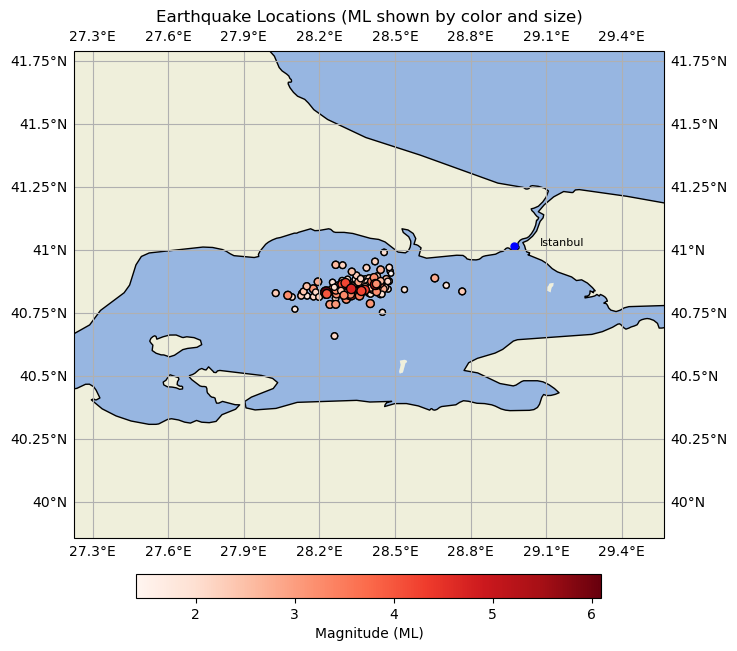
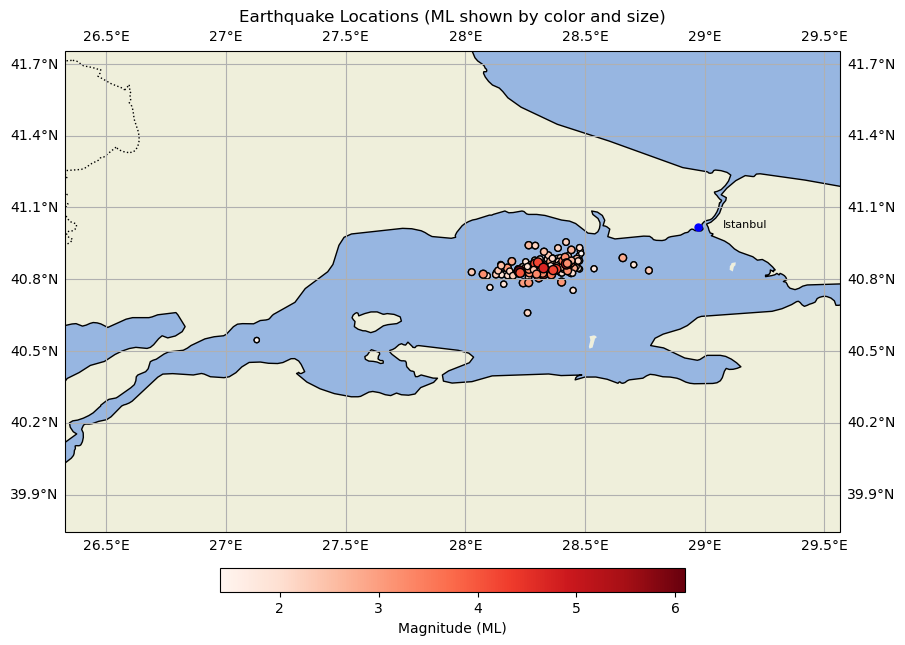
Added scraping option from server

diff --git a/process_earthquakes.py b/process_earthquakes.py
@@ -14,13 +14,13 @@ def is_near_istanbul(city_geom):
 
 near_istanbul = cities[cities['geometry'].apply(is_near_istanbul)]
 
-df = pd.read_csv("data/son_depremler.csv")
+df = pd.read_csv("data/marmara_earthquakes.csv")
 
 plt.figure(figsize=(10, 8))
 ax = plt.axes(projection=ccrs.PlateCarree())
 ax_offset = 0.8
-ax.set_extent([df['Boylam(E)'].min() - ax_offset, df['Boylam(E)'].max() + ax_offset,
-               df['Enlem(N)'].min() - ax_offset, df['Enlem(N)'].max() + ax_offset])
+ax.set_extent([df['Longitude'].min() - ax_offset, df['Longitude'].max() + ax_offset,
+               df['Latitude'].min() - ax_offset, df['Latitude'].max() + ax_offset])
 
 ax.add_feature(cfeature.LAND)
 ax.add_feature(cfeature.OCEAN)
@@ -34,13 +34,13 @@ for idx, row in near_istanbul.iterrows():
     ax.text(city_point.x + 0.1, city_point.y, row['NAME'], fontsize=8, transform=ccrs.PlateCarree())
 
 scatter = ax.scatter(
-    df['Boylam(E)'], df['Enlem(N)'],
-    c=df['ML'], s=df['ML'] * 10,
+    df['Longitude'], df['Latitude'],
+    c=df['Magnitude'], s=df['Magnitude'] * 10,
     cmap='Reds', edgecolor='black',
     transform=ccrs.PlateCarree()
 )
 
-plt.scatter(df['Boylam(E)'], df['Enlem(N)'], c=df['ML'], s=df['ML']*10, cmap='Reds', edgecolor='k')
+plt.scatter(df['Longitude'], df['Latitude'], c=df['Magnitude'], s=df['Magnitude']*10, cmap='Reds', edgecolor='k')
 plt.title("Earthquake Locations (ML shown by color and size)")
 cbar = plt.colorbar(scatter, ax=ax, orientation='horizontal', shrink=0.6, pad=0.06)
 cbar.set_label('Magnitude (ML)')

diff --git a/scrape_recent_earthquakes.py b/scrape_recent_earthquakes.py
@@ -1,0 +1,37 @@
+import requests
+from bs4 import BeautifulSoup
+import pandas as pd
+
+url = "http://www.koeri.boun.edu.tr/scripts/lst0.asp"
+response = requests.get(url)
+soup = BeautifulSoup(response.content, "html.parser")
+
+pre_tag = soup.find("pre")
+if not pre_tag:
+    print("Error: No <pre> tag found on the page.")
+    exit()
+
+lines = pre_tag.get_text().splitlines()[6:]
+records = []
+
+for line in lines:
+    parts = line.split()
+    if len(parts) < 7:
+        continue
+
+    date, time, lat, lon, depth = parts[0], parts[1], parts[2], parts[3], parts[4]
+    location_str = " ".join(parts[6:])
+    
+    if "MARMARA DENIZI" in location_str.upper():
+        try:
+            magnitude = float(parts[6])
+        except ValueError:
+            continue
+
+        cleaned_location = " ".join(parts[8:]) if len(parts) > 8 else "MARMARA DENIZI"
+        records.append([date, time, lat, lon, depth, magnitude, cleaned_location])
+
+df = pd.DataFrame(records, columns=["Date", "Time", "Latitude", "Longitude", "Depth(km)", "Magnitude", "Location"])
+df.to_csv("data/marmara_earthquakes.csv", index=False)
+
+print(f"Saved {len(df)} list of earthquakes to 'data/marmara_earthquakes.csv'")
